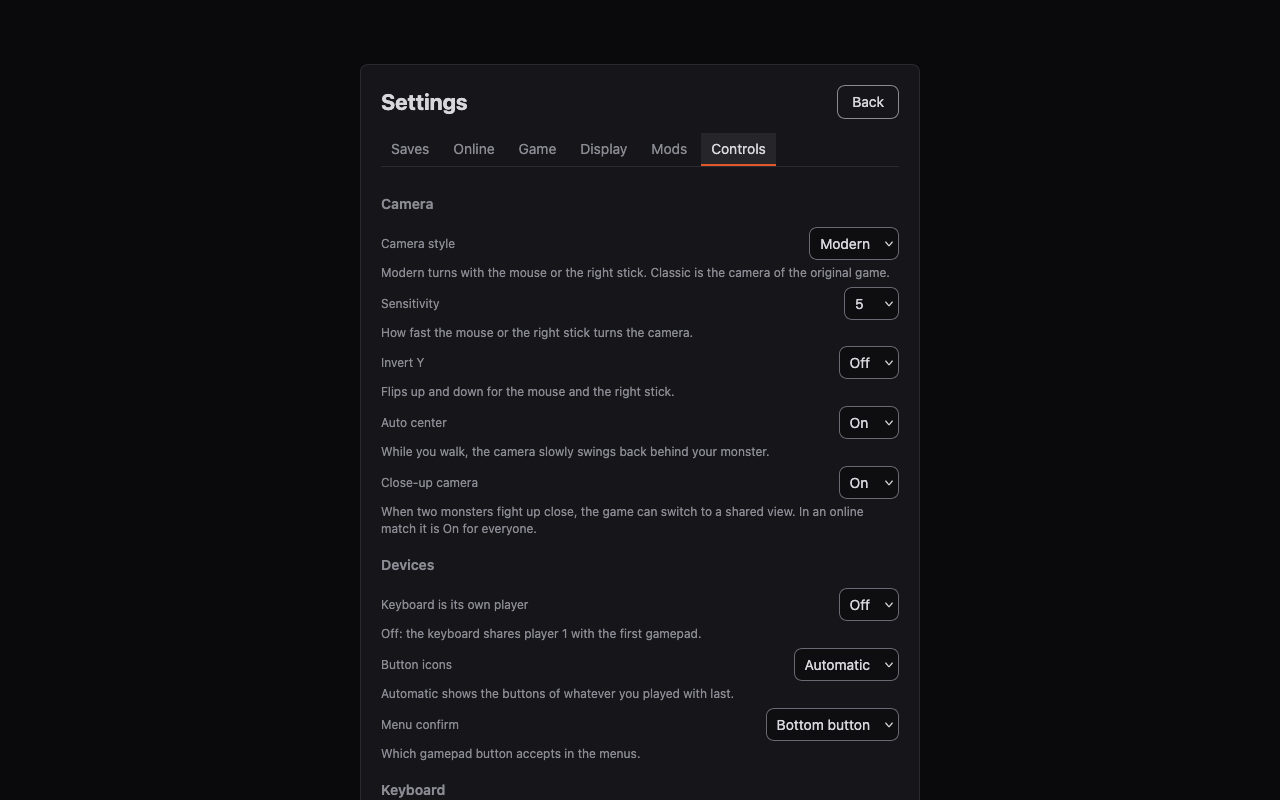
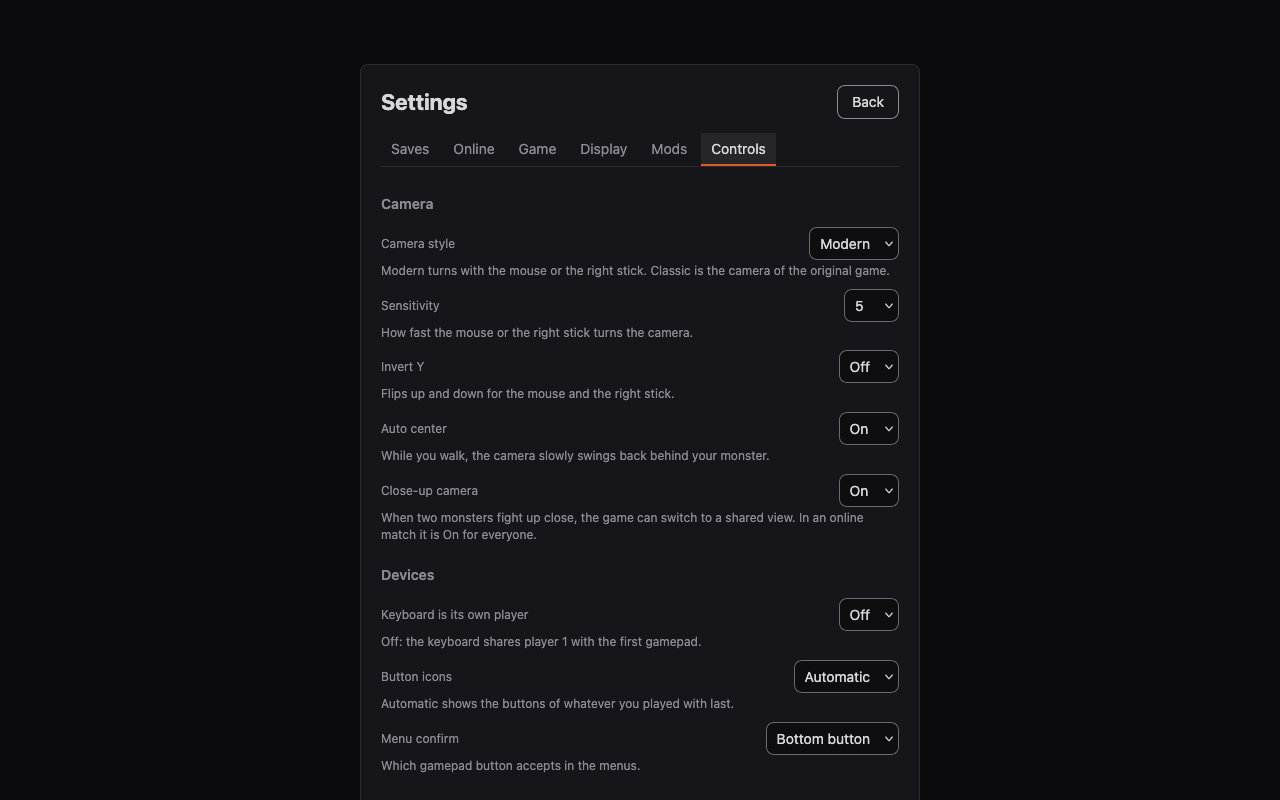
web: rebuild fixes from fresh reviews: scoped class names (the Settings tab kept getting the Play online styling), the status line under Start and Leave, honest measurements
- .online and .hint were global classes and also matched elements settings_ui.js builds on the Settings Online tab (a border and 16px of padding appeared there). Scoped to #choose .online and .online > .hint; page_check reads the Settings tab's computed style.
- The lobby's status line (and every error) now sits right under Start and Leave; the chat moved below it, shown and hidden with the lobby.
- The status line and the lobbies list reserve one line, two on a narrow screen (home had about 90px of dead space on desktop).
- before-after.md credits each change to the PR that made it (prod, after #194 and #195, this PR), says the footer still moves when the Firefox tip appears, and lists more of what was not tested.

diff --git a/web/index.html b/web/index.html
@@ -122,9 +122,9 @@ setTimeout(() => { const m = pending(); if (m && !m.classList.contains('problem'
   #rules legend { color: var(--dim); font-size: 12px; padding: 0 6px; }
   #rules label { display: flex; gap: 8px; align-items: center; color: var(--fg); font-size: 14px; }
   #rules input { width: 20px; height: 20px; margin: 0; accent-color: var(--accent-fill); }
-  .online { display: grid; gap: 10px; border-top: 1px solid var(--line); padding-top: 16px; }
-  .online h2, .listhead h3 { margin: 0; font-size: 12px; font-weight: 600; letter-spacing: .08em; text-transform: uppercase; color: var(--dim); }
-  .hint { margin: 2px 0 -4px; color: var(--dim); font-size: 12px; }
+  #choose .online { display: grid; gap: 10px; border-top: 1px solid var(--line); padding-top: 16px; }
+  #choose .online h2, .listhead h3 { margin: 0; font-size: 12px; font-weight: 600; letter-spacing: .08em; text-transform: uppercase; color: var(--dim); }
+  .online > .hint { margin: 2px 0 -4px; color: var(--dim); font-size: 12px; }
   .joinrow { display: flex; gap: 8px; }
   .joinrow input { flex: 1; min-width: 0; }
   .listhead { display: flex; justify-content: space-between; align-items: center; gap: 8px; }
@@ -153,9 +153,10 @@ setTimeout(() => { const m = pending(); if (m && !m.classList.contains('problem'
   #chatLog { margin: 0; padding: 0; list-style: none; max-height: 8em; overflow-y: auto; font-size: 13px; overflow-wrap: anywhere; }
   #chatLog:empty { display: none; }
   #lobbyList[inert] { opacity: .5; }
-  #lobbies { margin: 8px 0 0; padding: 0; list-style: none; display: grid; gap: 6px; min-height: 2.8em; }
+  #lobbies { margin: 8px 0 0; padding: 0; list-style: none; display: grid; gap: 6px; min-height: 1.4em; }
   #lobbies li { display: flex; gap: 8px; align-items: center; justify-content: space-between; }
-  #frontMsg { color: var(--dim); min-height: 2.8em; margin: 0; }
+  #frontMsg { color: var(--dim); min-height: 1.4em; margin: 0; }
+  @media (max-width: 480px) { #frontMsg, #lobbies { min-height: 2.8em; } }
   hr { border: 0; border-top: 1px solid var(--line); margin: 0; width: 100%; }
   #settings { width: min(560px, 100%); }
   #settings h2 { margin: 12px 0 4px; font-size: 14px; color: var(--dim); font-weight: 600; }
@@ -242,12 +243,12 @@ setTimeout(() => { const m = pending(); if (m && !m.classList.contains('problem'
       </div>
       <p id="guestSettings"></p>
       <div class="actions"><button id="start" class="main">Start</button><button id="leave">Leave</button></div>
-      <div id="chat" class="stack">
-        <ul id="chatLog" aria-live="polite"></ul>
-        <div class="joinrow"><input id="chatText" maxlength="200" placeholder="Say something" aria-label="Chat message" autocomplete="off"><button id="chatSend">Send</button></div>
-      </div>
     </div>
     <p id="frontMsg" role="status" data-pending>Loading…</p>
+    <div id="chat" class="stack" hidden>
+      <ul id="chatLog" aria-live="polite"></ul>
+      <div class="joinrow"><input id="chatText" maxlength="200" placeholder="Say something" aria-label="Chat message" autocomplete="off"><button id="chatSend">Send</button></div>
+    </div>
     <div class="row"><button id="openSettings">Settings</button><button id="openReport" hidden>Send report</button></div>
     <p id="deviceNote" hidden role="note"></p>
     <p id="firefoxTip" hidden role="note"><span id="firefoxTipText"></span> <button id="firefoxTipOk" type="button">Got it</button></p>

diff --git a/web/front.js b/web/front.js
@@ -81,6 +81,7 @@ function showLobby(code, isOwner, rematch = false) {
   setOwner(isOwner);
   $('choose').hidden = true;
   $('inLobby').hidden = false;
+  $('chat').hidden = false;
   $('code').textContent = code;
   $('start').textContent = rematch ? 'Rematch' : 'Start';
   if (rematch) say(isOwner ? 'Back in the lobby. Press Rematch when everyone is back.' : 'Back in the lobby. Waiting for the owner to start the rematch.');
@@ -502,6 +503,7 @@ function backToChoice(text) {
   members = { owner: '', members: [] };   // the next lobby's settings must not warm this one's monsters
   window.wotmMatchPrefetch?.warmer.cancel();
   $('inLobby').hidden = true;
+  $('chat').hidden = true;
   $('inviteLink').hidden = true;
   $('choose').hidden = false;
   for (const id of ['single', 'host', 'join']) $(id).disabled = false;

diff --git a/docs/audits/2026-11-23/before-after.md b/docs/audits/2026-11-23/before-after.md
@@ -11,14 +11,14 @@ Phone is 390x844 at 2x; desktop is 1280x800; the touch layout is a phone held si
 
 | | BEFORE | AFTER | What changed |
 |---|---|---|---|
-| Phone, Firefox | <img src="before-after/before-firefox-phone-home.png" width="240"> | <img src="before-after/after-firefox-phone-home.png" width="240"> | The long Firefox tip no longer sits above the controls (it pushed them down 114px when it appeared); one filled Single player button; the online choices sit under their own "Play online" heading; 44px controls. |
-| Desktop, Firefox | <img src="before-after/before-firefox-desktop-home.png" width="420"> | <img src="before-after/after-firefox-desktop-home.png" width="420"> | Same structure, fields fill the card, buttons and fields are 34px with 8px corners, nothing moves while the page loads, and the status bar is no longer drawn under the panel. |
+| Phone, Firefox | <img src="before-after/before-firefox-phone-home.png" width="240"> | <img src="before-after/after-firefox-phone-home.png" width="240"> | The long Firefox tip no longer sits above the controls (it pushed them down 114px when it appeared) and now comes after the online choices, below the fold on a phone; one filled Single player button; the online choices sit under their own "Play online" heading; 44px controls. |
+| Desktop, Firefox | <img src="before-after/before-firefox-desktop-home.png" width="420"> | <img src="before-after/after-firefox-desktop-home.png" width="420"> | Same structure, fields fill the card, buttons and fields are 34px with 8px corners, no control moves while the page loads (only the footer, when the Firefox tip appears), and the status bar is no longer drawn under the panel. |
 
 ## Lobby
 
 | | BEFORE | AFTER | What changed |
 |---|---|---|---|
-| Phone, Firefox | <img src="before-after/before-firefox-phone-lobby.png" width="240"> | <img src="before-after/after-firefox-phone-lobby.png" width="240"> | The lobby code is large with a label, next to Copy invite link; members are rows with their chips; Stage and Wins sit side by side; Rules is a labelled box with 20px checkboxes; Start (wide) is beside Leave; the chat comes last. |
+| Phone, Firefox | <img src="before-after/before-firefox-phone-lobby.png" width="240"> | <img src="before-after/after-firefox-phone-lobby.png" width="240"> | The lobby code is large with a label, next to Copy invite link; members are rows with their chips; Stage and Wins sit side by side; Rules is a labelled box with 20px checkboxes; Start (wide) is beside Leave, the status line is right under them, and the chat comes last. |
 | Desktop, Firefox | <img src="before-after/before-firefox-desktop-lobby.png" width="420"> | <img src="before-after/after-firefox-desktop-lobby.png" width="420"> | Same layout on the wider card; Start is the one filled button of the lobby. |
 
 ## Settings
@@ -36,7 +36,7 @@ The Mods tab (your creations, map editor) is not redesigned; it only picks up th
 
 | | BEFORE | AFTER | What changed |
 |---|---|---|---|
-| Layout panel, Chrome | <img src="before-after/before-chrome-phone-touch-layout.png" width="420"> | <img src="before-after/after-chrome-phone-touch-layout.png" width="420"> | The panel's buttons are larger (8px corners, more padding), its checkboxes follow the dark scheme, and on a phone shorter than the panel it scrolls inside the screen instead of running past the bottom. The on-screen controls themselves are unchanged. |
+| Layout panel, Chrome | <img src="before-after/before-chrome-phone-touch-layout.png" width="420"> | <img src="before-after/after-chrome-phone-touch-layout.png" width="420"> | The panel's buttons are larger (8px corners, more padding), its checkboxes follow the dark scheme, and on a phone shorter than the panel it scrolls inside the screen instead of running past the bottom. The on-screen controls themselves are unchanged. The "Downloading game data" text behind the panel is the game's load overlay on the test page, in both pictures. |
 | Move buttons, Chrome | <img src="before-after/before-chrome-phone-touch-layout-moving.png" width="420"> | <img src="before-after/after-chrome-phone-touch-layout-moving.png" width="420"> | Same panel in Move buttons mode (dashed outlines on the controls). |
 
 ## Safari (cannot run the game)
@@ -48,15 +48,20 @@ The Mods tab (your creations, map editor) is not redesigned; it only picks up th
 
 ## Measured
 
-| | BEFORE | AFTER |
-|---|---|---|
-| Firefox, controls that move after first paint | name, monster, Single player, Host, Join, Settings (86px desktop, 114px phone, at ~800ms) | none (only the footer, below everything, when the Firefox tip appears) |
-| Chrome, controls that move after first paint | the lobby list moved everything 34px (desktop) and 53px (phone) | none |
-| Dead presses | Single player, Host and Join were clickable from first paint, before their handlers attached (~100 to 800ms) | disabled until the handlers are attached |
-| Field borders against the panel | 1.27:1 | 3.4:1 |
-| Controls on a touch device | 24 to 38px | 44px |
-| axe-core (4.10.2), home, lobby and six settings tabs, Firefox and Chrome | `region` (no landmark) on every view | no violations |
-| `tools/page_check.mjs` | 39 of 58 in Firefox, 39 of 58 in Chrome, 4 of 8 in WebKit | 58 of 58 in Firefox, Chrome and Brave; 8 of 8 in WebKit |
+This pass is three PRs: #194 (loading without movement, instant presses, field borders, 44px on any touch device), #195 (review fixes of #194) and this one (the rebuild). The middle column is `wip/browser` after #194 and #195, before this PR, so each change is credited to the PR that made it. The BEFORE pictures above are prod; the AFTER pictures include all three.
+
+| | prod now | after #194 and #195 | this PR |
+|---|---|---|---|
+| Firefox, controls that move after first paint | name, monster, Single player, Host, Join, Settings (86px desktop, 114px phone, at ~800ms) | none (only the footer, below everything, when the Firefox tip appears) | same |
+| Chrome, controls that move after first paint | the lobby list moved everything 34px (desktop) and 53px (phone) | none | same |
+| Dead presses | Single player, Host and Join were clickable from first paint, before their handlers attached (~100 to 800ms) | disabled until the handlers are attached | same |
+| Field borders against the panel | 1.27:1 | 3.4:1 | same |
+| Controls on a touch device | 24 to 38px | 44px | same |
+| Landmark, grouped online choices, Start beside Leave, can't-run page, status bar not under the panel, 32px desktop controls | no | no | yes |
+| axe-core (4.10.2), home, lobby and six settings tabs, Firefox and Chrome | `region` (no landmark) on every view | same | no violations |
+| `tools/page_check.mjs` (59 checks, 8 in WebKit) | 40 in Firefox, 40 in Chrome, 4 in WebKit | 55 in Firefox, 55 in Chrome, 4 in WebKit | 59 in Firefox, Chrome and Brave; 8 in WebKit |
+
+The four checks that separate the middle and last columns were added by this PR together with the changes they test.
 
 ## What was not tested
 
@@ -64,3 +69,6 @@ The Mods tab (your creations, map editor) is not redesigned; it only picks up th
 - A touch laptop (mouse as the main pointer, touch screen as another): no browser here can emulate that pair, so the `any-pointer: coarse` rule is checked by a text test only.
 - Real phones, real Safari and real touch drags. The phones are emulated; WebKit is Playwright's build.
 - The game itself (the pages were shot without starting it) and an online match.
+- Tab order through the lobby as owner and as guest, and focus when the unsupported-browser page hides the form: only the first Tab stop is checked.
+- The widths between 320 and 390px (only 390 and 1280 are shot; the touch panel is checked at 844x390 and 568x320).
+- No audio is involved (the game never starts). Chrome, Brave and Firefox start muted; WebKit has no mute switch.
